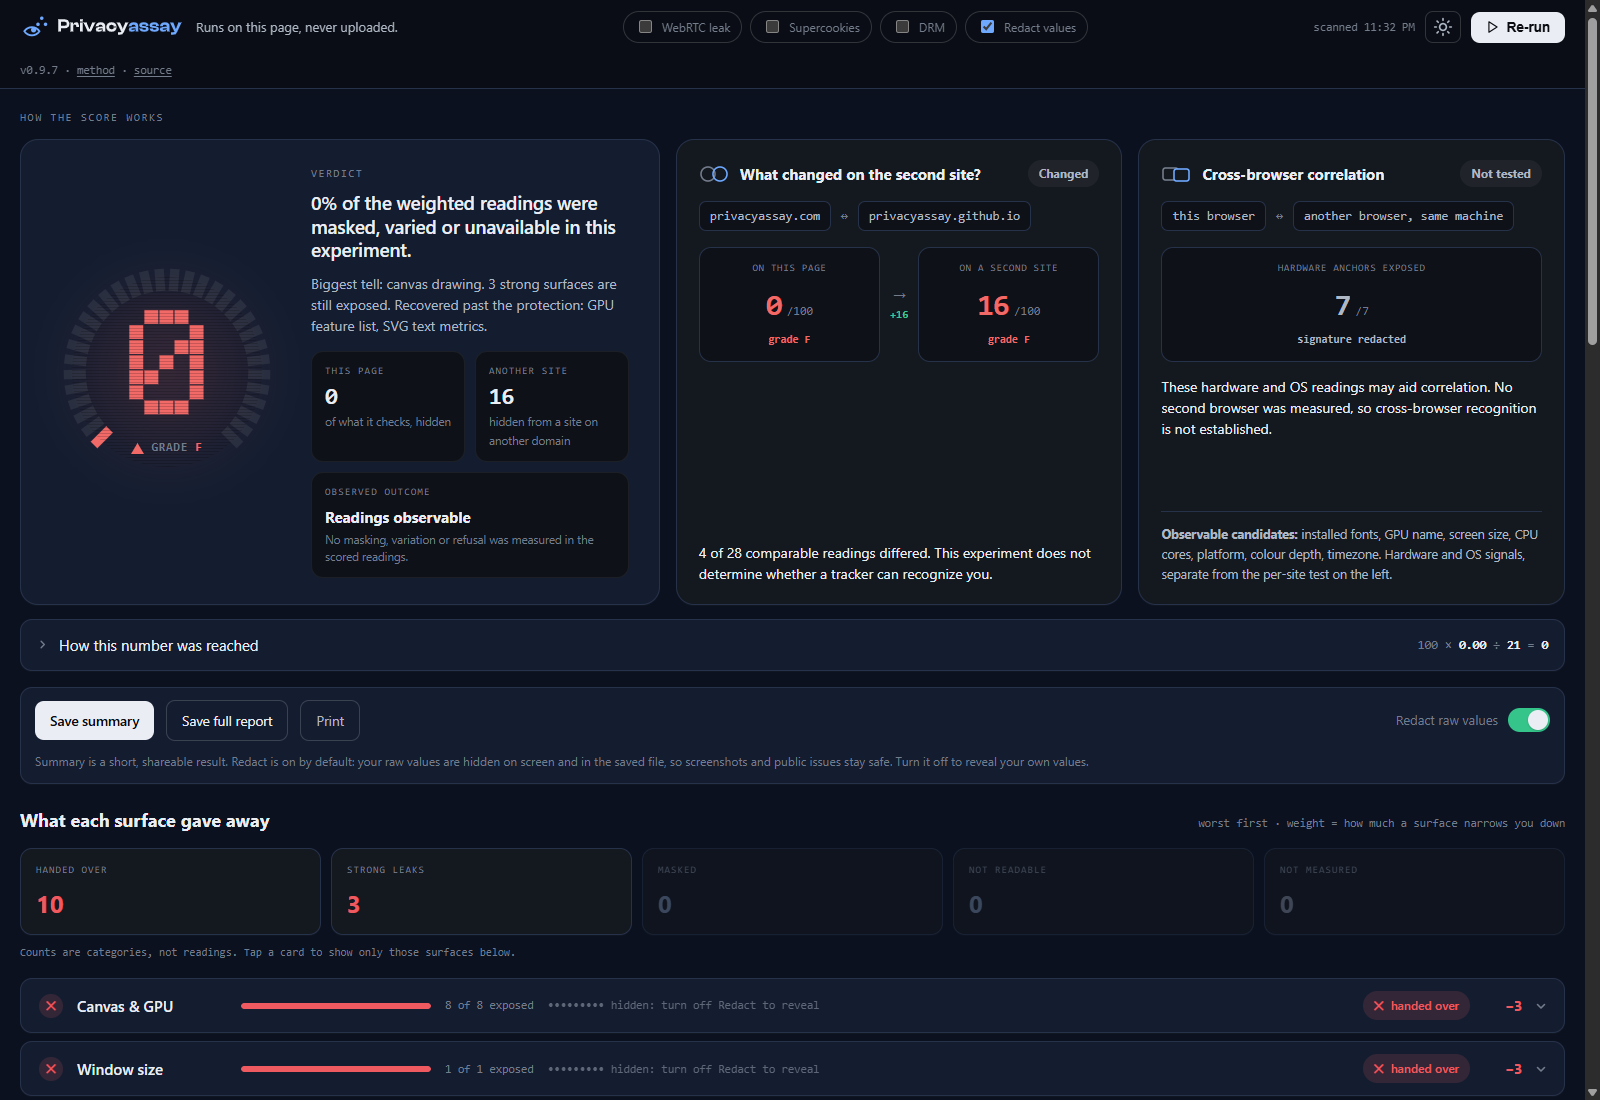
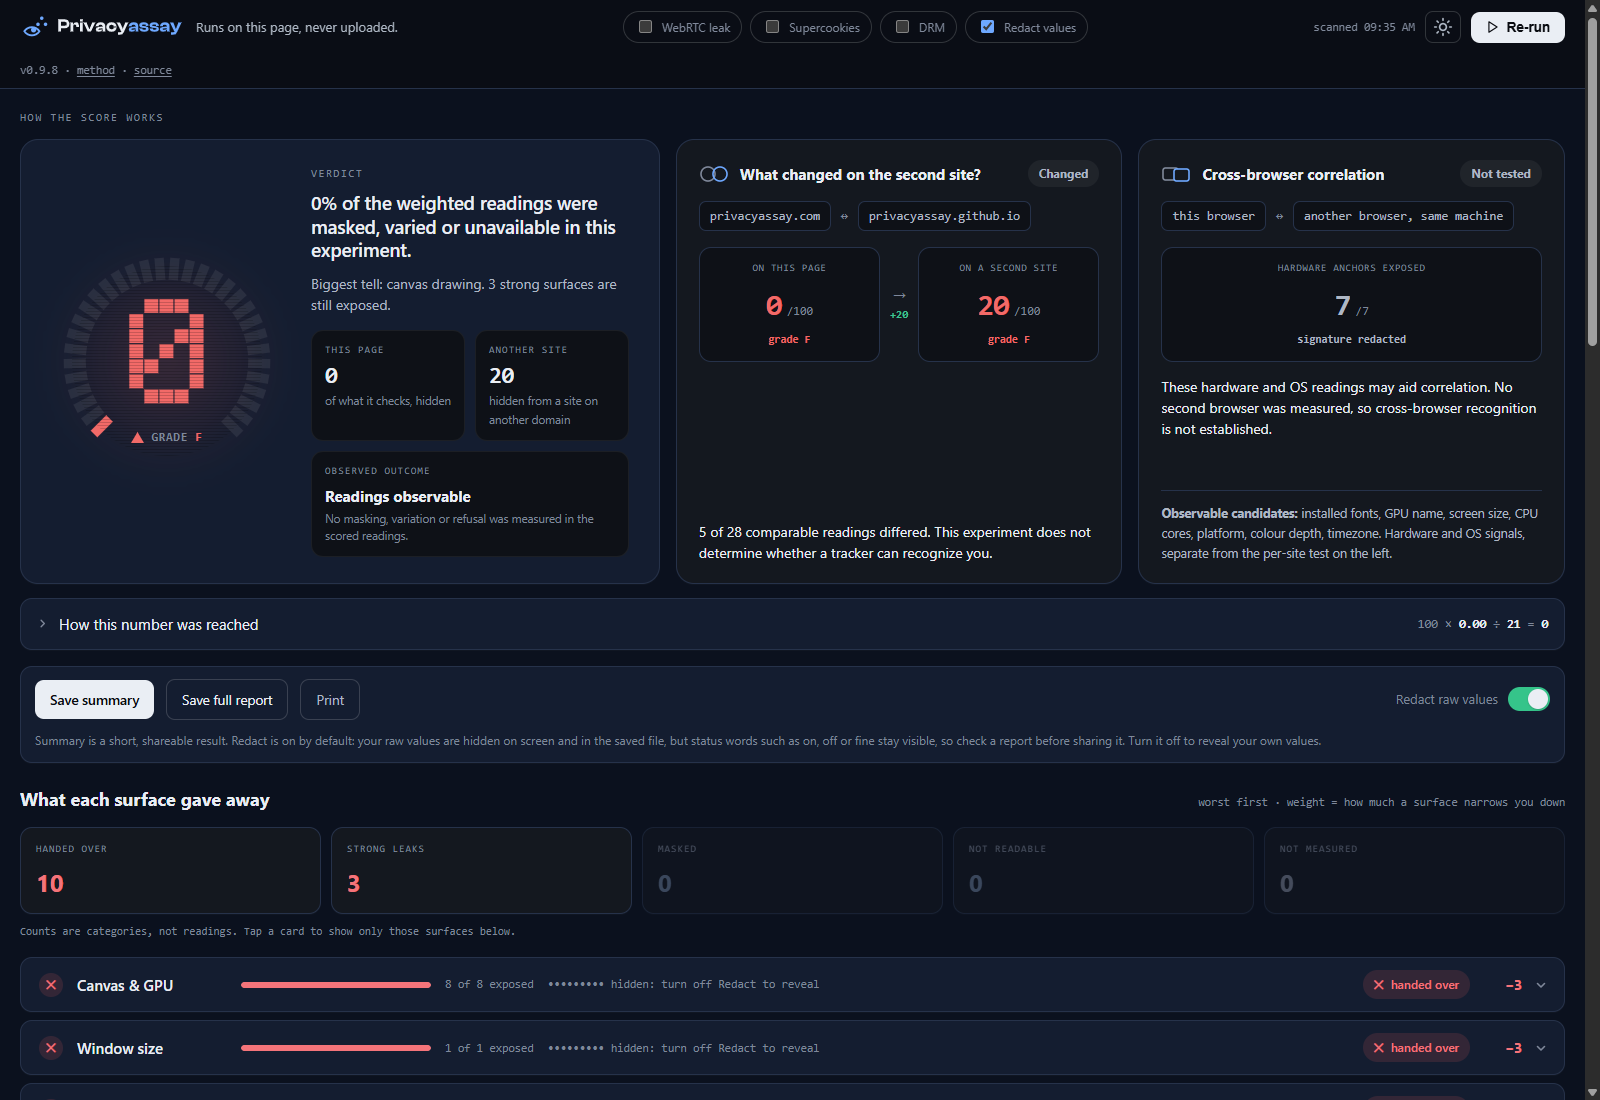
docs: 0.9.8 screenshot, Safari check, methodology and llms notes

diff --git a/METHODOLOGY.md b/METHODOLOGY.md
@@ -1,6 +1,6 @@
 # Methodology 0.9.8
 
-Updated 2026-11-17. This version measures observed fingerprint exposure. Its scores are not comparable with 0.9.1-beta captures. 0.9.3 changed the canvas comparison value from encoded PNG bytes to decoded pixels, so its cross-site canvas results are not comparable with 0.9.2 captures. A lower 0.9.3 score on the same browser removes credit 0.9.2 gave in error; it is not a browser regression. 0.9.4 scores a WebGL readback that the browser refuses with NotSupportedError (Mullvad, Tor) as a refused reading instead of unknown, so those browsers can now complete a run and are not comparable with 0.9.3. 0.9.5 adds uniformity credit to the cross-site score, so cross-site scores of Tor Browser, Mullvad Browser and LibreWolf are not comparable with 0.9.4. 0.9.6 counts a hidden reading as exposed when a fresh same-origin frame or hit-testing recovers it, so scores of browsers or extensions that miss those routes are not comparable with 0.9.5. 0.9.7 retains any alternate-route exposure even if another read fails, rejects one-sided exposure as proof of per-site variation, and adds WebGPU features. Scores are not directly comparable with 0.9.6.
+Updated 2026-11-17. This version measures observed fingerprint exposure. Its scores are not comparable with 0.9.1-beta captures. 0.9.3 changed the canvas comparison value from encoded PNG bytes to decoded pixels, so its cross-site canvas results are not comparable with 0.9.2 captures. A lower 0.9.3 score on the same browser removes credit 0.9.2 gave in error; it is not a browser regression. 0.9.4 scores a WebGL readback that the browser refuses with NotSupportedError (Mullvad, Tor) as a refused reading instead of unknown, so those browsers can now complete a run and are not comparable with 0.9.3. 0.9.5 adds uniformity credit to the cross-site score, so cross-site scores of Tor Browser, Mullvad Browser and LibreWolf are not comparable with 0.9.4. 0.9.6 counts a hidden reading as exposed when a fresh same-origin frame or hit-testing recovers it, so scores of browsers or extensions that miss those routes are not comparable with 0.9.5. 0.9.7 retains any alternate-route exposure even if another read fails, rejects one-sided exposure as proof of per-site variation, and adds WebGPU features. Scores are not directly comparable with 0.9.6. 0.9.8 hashes the WebGL extension list in sorted order, gives the SVG text probe its own font, counts an empty voice list as an exposed reading and reads canvas pixels from willReadFrequently contexts. Scores are not directly comparable with 0.9.7.
 
 ## Outcomes
 

diff --git a/README.md b/README.md
@@ -21,9 +21,9 @@ Everything runs on your machine; the fingerprint is never uploaded.
 
 </div>
 
-![Privacyassay 0.9.7 result: Brave, 0 of 100 hidden on this page, 16 on a second site, grade F](screenshot.png)
+![Privacyassay 0.9.8 result: Brave, 0 of 100 hidden on this page, 20 on a second site, grade F](screenshot.png)
 
-<div align="center"><sub>Brave 1.97.56, 0.9.7, headless, both opt-ins off, 2026-10-10, hosted pair. Your result will differ.</sub></div>
+<div align="center"><sub>Brave 1.99.57, 0.9.8, headless, both opt-ins off, 2026-11-17, hosted pair. Your result will differ.</sub></div>
 
 ---
 
@@ -69,7 +69,7 @@ One machine, Windows 11, headless, 2026-11-16 to 2026-11-17 UTC, 0.9.8 measured 
 
 Range covers both runs across all four opt-in settings (supercookies, WebRTC), which change the denominator; different settings are not equivalent. The bar is the two-run mean with opt-ins off; Cross-site and Single-site show those two runs, including any spread. Single-site earns no uniformity credit, so Tor and Mullvad read lower there. Brave re-seeds per session. Installed fonts earn no uniformity credit. Tor and Mullvad retained bundled extensions at Standard security; Tor is release 16.0.1 on Gecko 153.7.0 and Mullvad 15.0.24 on Gecko 140.17.0. Brave uses Chromium 157.0.8103.79. Raw captures stay private; [aggregate measurements](bench/results-0.9.8.json) contain no raw fingerprint values. Scores are not comparable with 0.9.7 or earlier: an empty voice list now counts as an exposed reading, which lowers Tor, Mullvad and LibreWolf by 5 points.
 
-Separate native Safari check: Safari 26.6.1 on macOS 15.7.9, the same hosted 0.9.7 build, opt-ins off. Two SafariDriver sessions each scored **12 single-site and 12 cross-site**, both complete. These sessions had no explicit profile reset or four-setting matrix, so they are outside the Windows comparison. [Test results](https://github.com/seyedehsanhadi/privacyassay/actions/runs/38562462345).
+Separate native Safari check: every push runs the hosted 0.9.8 pair in Safari 27.2 on macOS 15.8.2 (GitHub arm64 runner) and requires complete single-site and cross-site results. That check does not publish scores and has no profile reset or four-setting matrix, so it is outside the Windows comparison. [Test results](https://github.com/seyedehsanhadi/privacyassay/actions/runs/44044578618). The last published Safari scores are from 0.9.7: Safari 26.6.1 on macOS 15.7.9, **12 single-site and 12 cross-site**.
 
 ## Run it
 

diff --git a/bench/README.md b/bench/README.md
@@ -21,6 +21,6 @@ The CI `safari` job uses Apple's native SafariDriver on a macOS runner. It runs 
 
 `calibration.mjs` and `sensitivity.mjs` analyze the historical 0.9.1-beta captures. Those figures are not validated browser rankings for 0.9.2. Preserve historical captures; do not silently mix methodology versions.
 
-The README chart and table are 0.9.7 headless measurements from `live.mjs`, two fresh profiles per opt-in setting. `results-0.9.7.json` publishes aggregate scores, release/engine versions, completion counts and the deployed source hash. `node bench/results.mjs <capture-directory>` validates the four capture files per browser plus `versions.json` and regenerates the aggregate JSON and charts; incomplete settings receive no range.
+The README chart and table are 0.9.8 headless measurements from `live.mjs`, two fresh profiles per opt-in setting. `results-0.9.8.json` publishes aggregate scores, release/engine versions, completion counts and the deployed source hash. `node bench/results.mjs <capture-directory>` validates the four capture files per browser plus `versions.json` and regenerates the aggregate JSON and charts; incomplete settings receive no range.
 
 Run `node bench/figures.mjs` to update the social-card SVG (`--check` verifies its version), then `node bench/render-assets.mjs` with Chrome installed to render the PNG.
